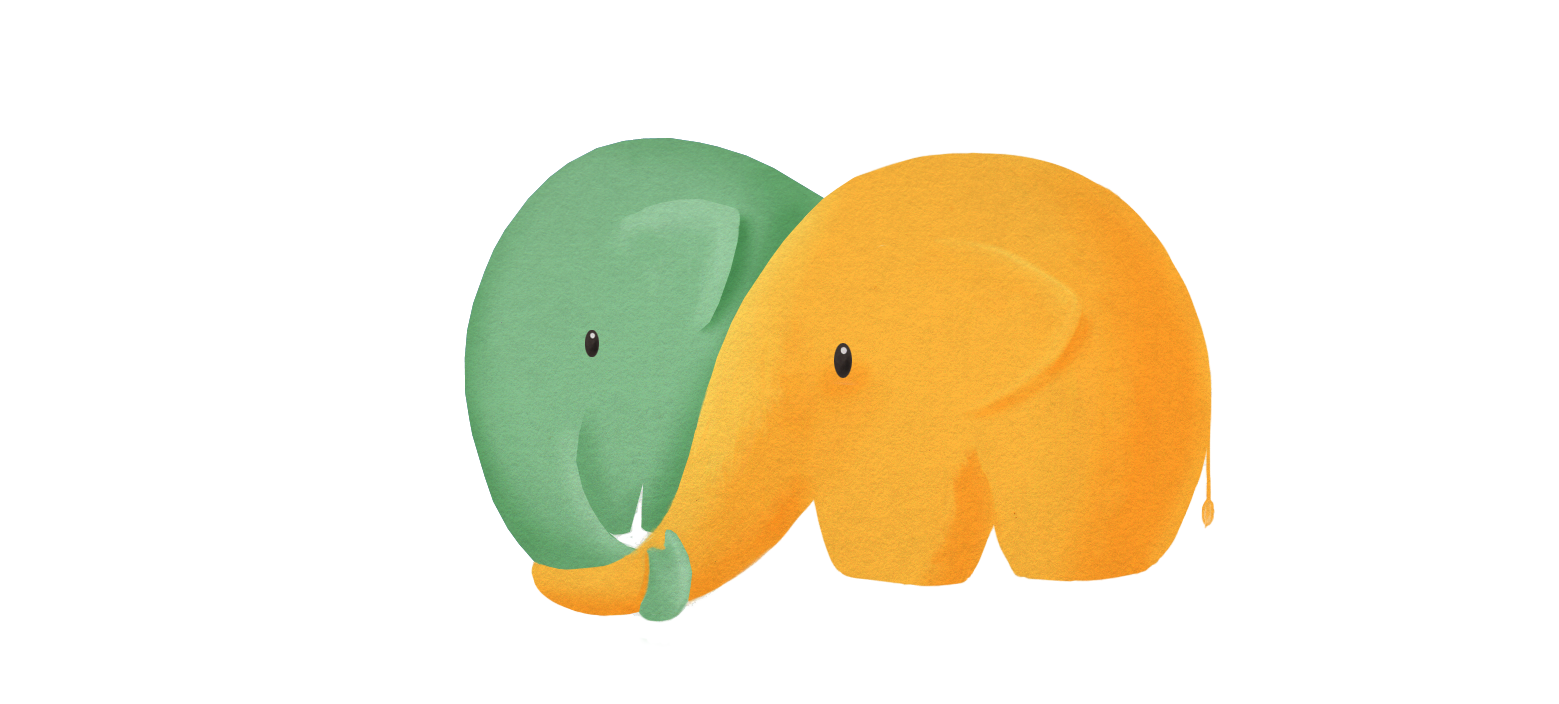
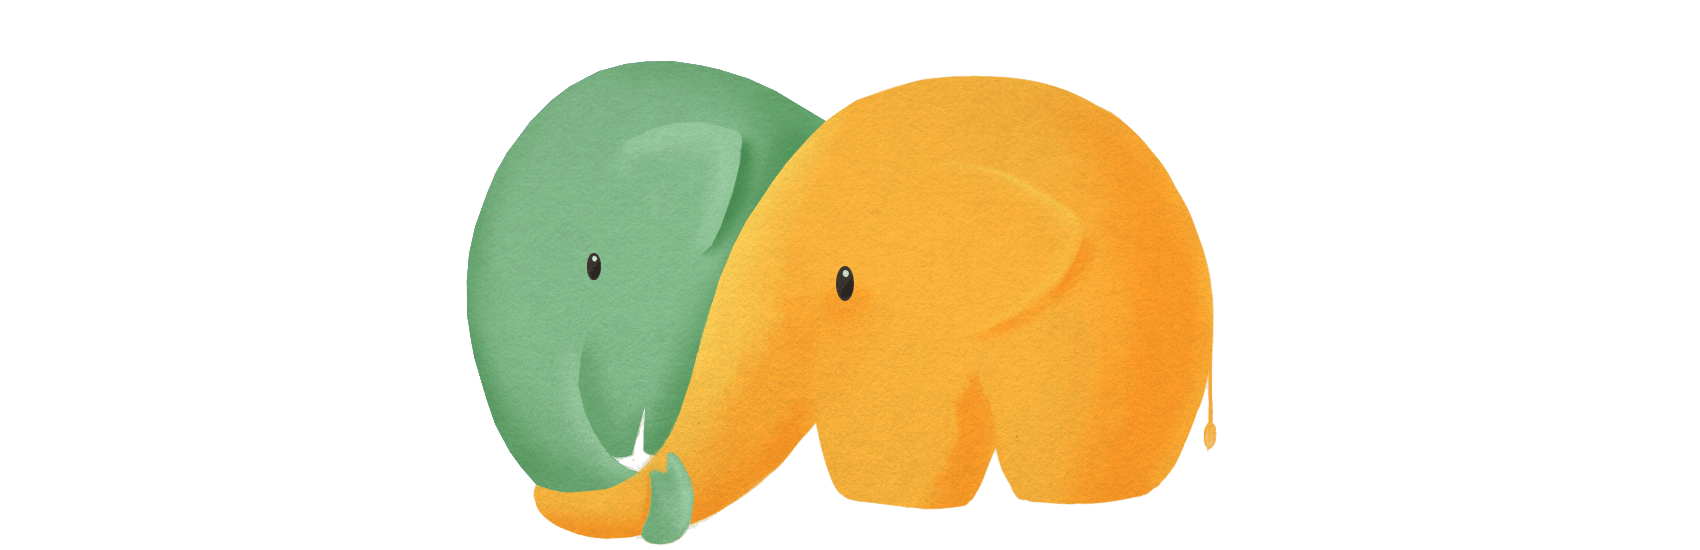
Changed elephants

Changed region(s): [[0.2771, 0.0927, 0.8005, 0.9891]]

diff --git a/public/rsvp/app/view/Main.js b/public/rsvp/app/view/Main.js
@@ -32,7 +32,7 @@ var createItems = function() {
             xtype: 'button',
             minWidth: 250,
             maxWidth: 360,
-
+            ui: 'confirm',
             text: 'אני ו' + coupleName + ' נגיע',
             handler: approveCouple
         });
@@ -44,7 +44,7 @@ var createItems = function() {
             minWidth: 250,
             text: 'אני ' + arriving + ' לבד',
             scale: 'large',
-
+            ui: 'confirm',
             handler: approve
         });
 
@@ -56,6 +56,7 @@ var createItems = function() {
             ui: 'confirm',
             minWidth: 250,
             maxHeight: 40,
+
             text: 'אני ' + arriving,
             handler: approve
         })
@@ -68,6 +69,7 @@ var createItems = function() {
         xtype: 'button',
         height: btnHeight,
         minWidth: 250,
+        ui: 'decline',
         maxHeight: 40,
         text: 'אני לא ' + arriving,
         handler: decline
@@ -137,7 +139,7 @@ var notComingPanel = Ext.create('Ext.Panel', {
             xtype: 'image',
 //        height: '',
             width: '100%',
-//            height: '60%',
+            height: '70%',
 //        src: 'http://www.huptalentandbooking.com/images/elephants_dove.png',
             src: 'resources/images/Sad.png',
             flex: 1
@@ -182,9 +184,9 @@ var createContent = function() {
         {
             xtype: 'image',
             width: '100%',
-            height: '100%',
+//            height: '10%',
 //            html    : '<img src="resources/images/Normal.png" />',
-            src: 'resources/images/Normal_2.png',
+            src: 'resources/images/Normal.png',
             flex: 2
 
         }, {
@@ -192,7 +194,11 @@ var createContent = function() {
 //            height: '40%',
             layout: {
                 type: 'vbox',
+
                 align: 'right'
+            },
+            defaults: {
+                margin: 2
             },
             items: createItems(),
             flex: 1
